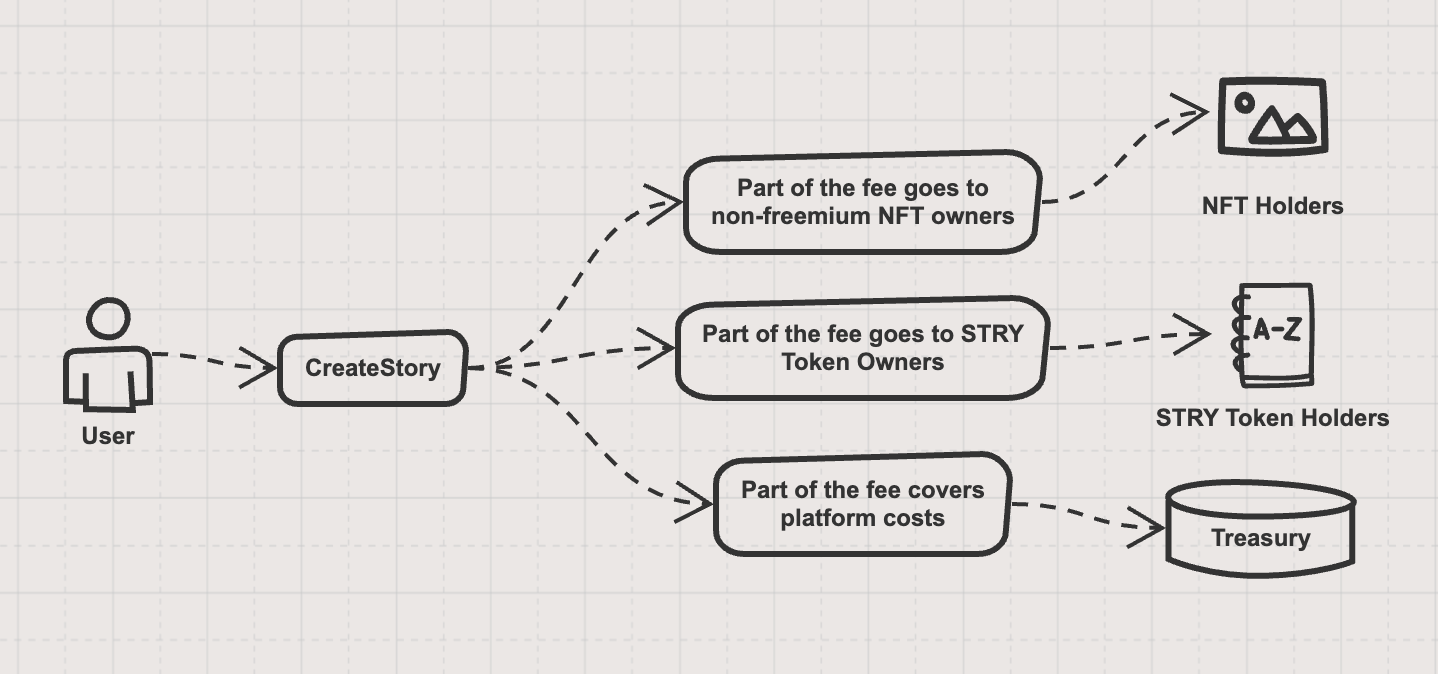
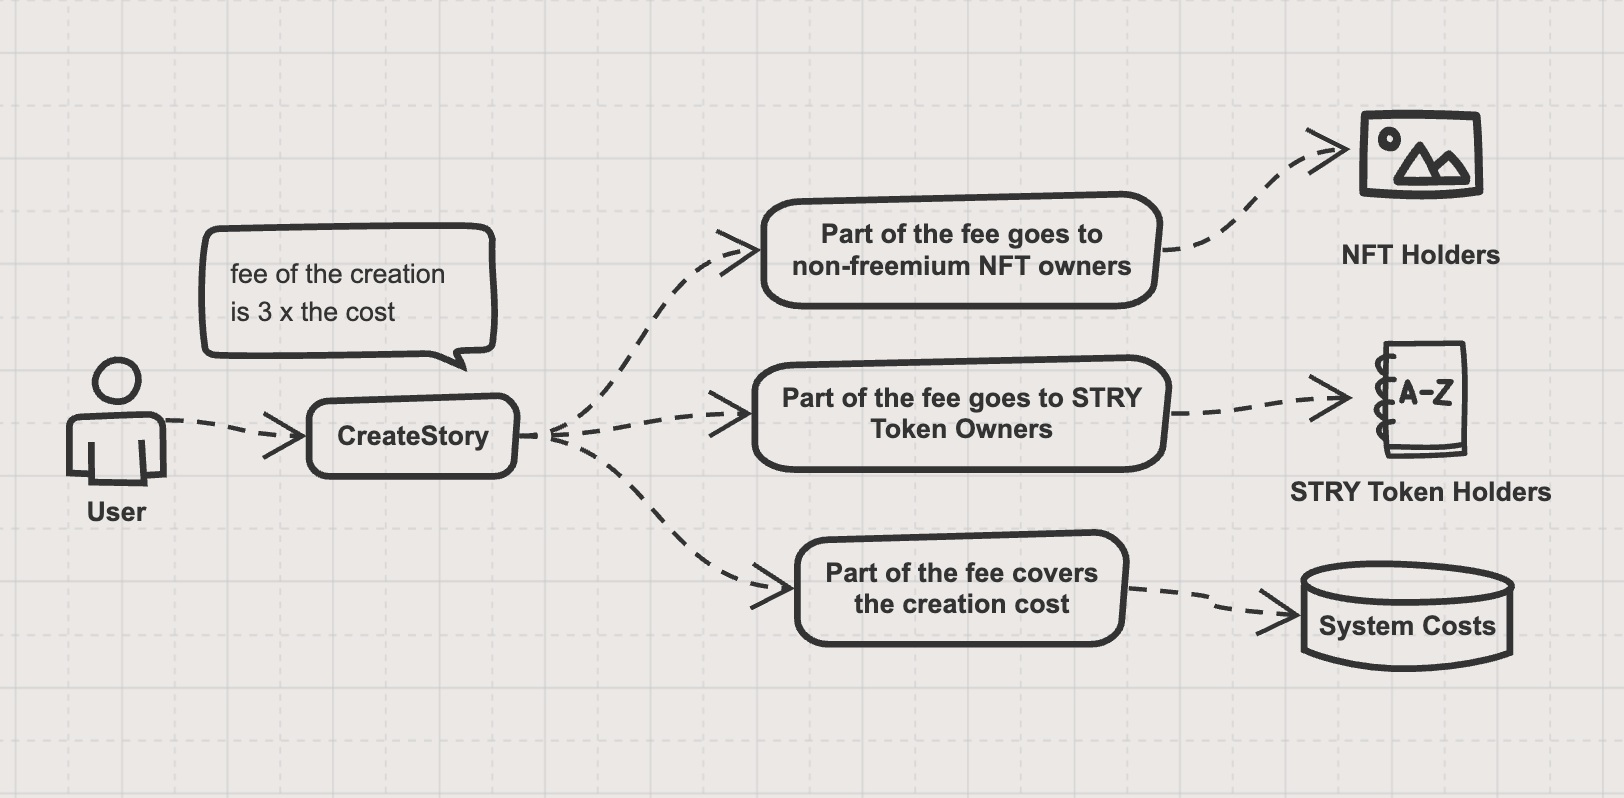
GITBOOK-21: No subject

diff --git a/other/fee-structure.md b/other/fee-structure.md
@@ -4,19 +4,19 @@ NFT generation cost includes LLM AI cost, Image generation AI cost, hosting serv
 
 The generation fees will be paid by BNB until the launch of STRY token and will continue with STRY token. As the cost of generation relies on services of USD price, the fee will be kept pegged to USD cost of generation.
 
-Economic model aligns with a three-part division of fees among the team/investors, the community/users, and covering costs. This provides a clear structure for revenue distribution.
+Economic model aligns with a three-part division of fees among the community/users, the treasury and covering costs. This provides a clear structure for revenue distribution.
 
-The division portions will be decided by the governance.
+
 
 1. A portion of the fee is divided among Community/Users:
 
 * Rationale: Encourages community engagement and rewards users who hold NFTs, fostering a sense of ownership and loyalty.
 * Implementation: Distribute the portion of the story creation fee proportionally to NFT holders. This can be calculated based on the percentage of total NFT ownership.
 
-2. A portion of the fee is divided among Investors:
+2. A portion of the fee is given to the treasury:
 
-* Rationale: Recognizes the efforts of the team and provides a return on investment for early investors.
-* Implementation: Automatic allocation of the portion of the story creation fee to a fund designated for the team and investors.
+* Rationale: Recognizes the efforts of the team and allows further development.
+* Implementation: Automatic allocation of the portion of the story creation fee to a fund designated for the team.
 
 3. Platform Costs:
 

diff --git a/other/earn-system.md b/other/earn-system.md
@@ -4,4 +4,4 @@ StoryChain NFT owners earn as the community grows. A portion of the NFT generati
 
 This way the more you contribute, the more you earn, the more community earns.
 
-<figure><img src="../.gitbook/assets/feeStructure (1).png" alt=""><figcaption></figcaption></figure>
+<figure><img src="../.gitbook/assets/feeStructure.png" alt=""><figcaption></figcaption></figure>
